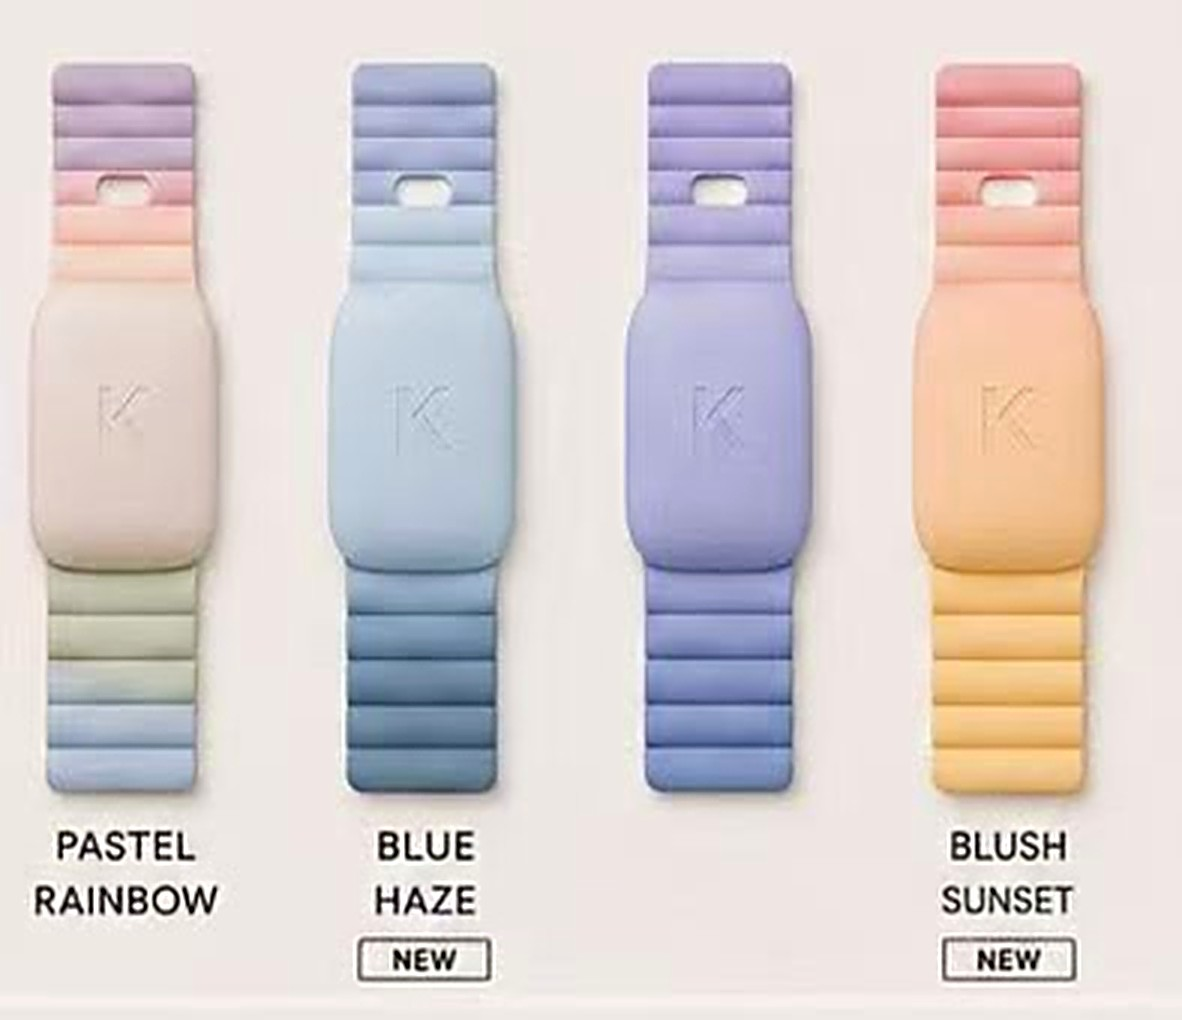
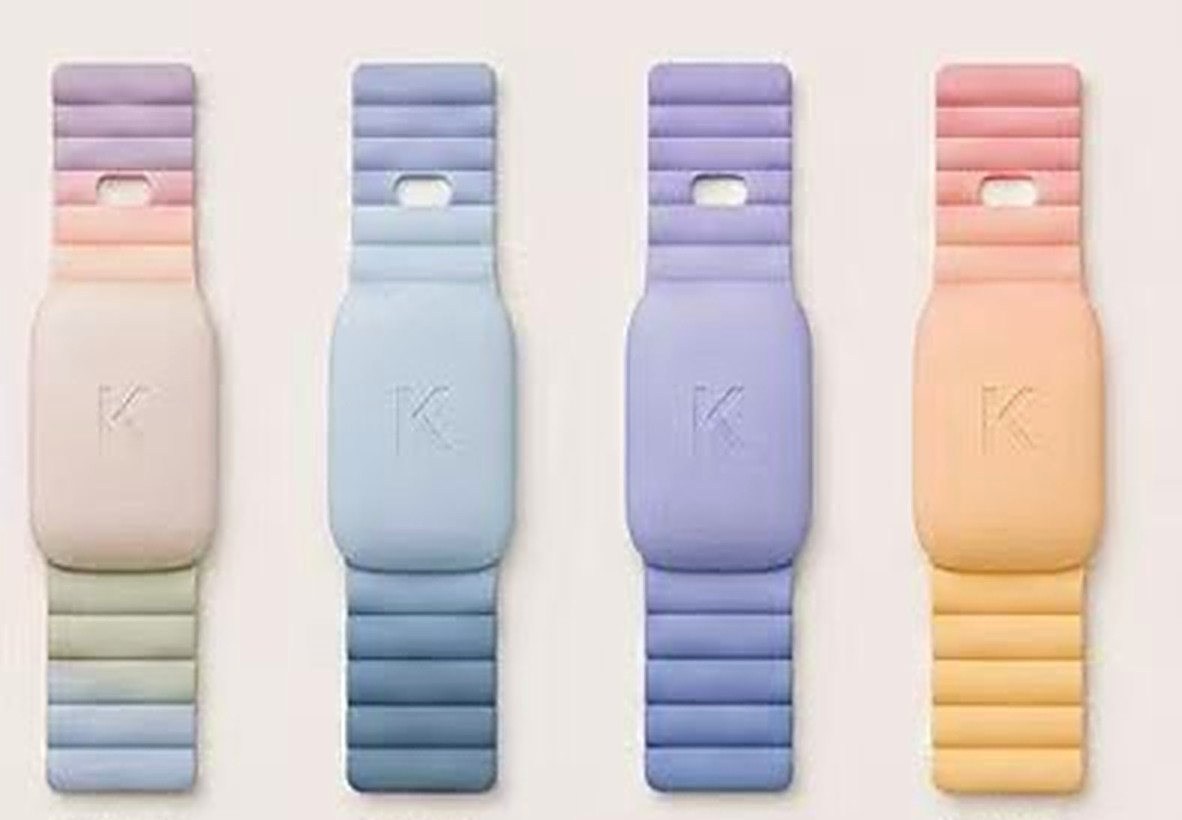
Marketing overhaul: Calm Score hero section, pro copy pass, crop colorway labels from band image
- Crop baked-in colorway text strip off band-lineup.jpg (3 labels / 4 bands read as a layout bug)
- New full-width Calm Score section: live sparkline + push-notification mock — the real-time differentiator now gets Whoop-grade placement
- Replace emoji card icons with uppercase category eyebrows (Oura-style)
- Kill 'An app that follows the sky' header → 'Built for parents. Loved by kids.' with job-based screenshot captions; build note demoted to footnote
- De-emoji hero chips, sharpen hero subhead around live Calm Score

diff --git a/index.html b/index.html
@@ -4,7 +4,7 @@
     <meta charset="UTF-8">
     <meta name="viewport" content="width=device-width, initial-scale=1.0">
     <title>Kidence — The wellness band for growing kids</title>
-    <meta name="description" content="Sleep, activity and calm — one gentle band turns your child's day into a clear picture: a daily readiness score, AI guidance tuned to your kid, and a companion they'll love wearing.">
+    <meta name="description" content="The wellness band for kids: sleep, activity and a real-time Calm Score that shows big feelings building — with AI guidance tuned to your child. Reserve for $5.99, fully refundable.">
     <link rel="icon" type="image/png" href="favicon.png">
     <script src="https://cdn.tailwindcss.com"></script>
     <link rel="preconnect" href="https://fonts.googleapis.com">
@@ -82,14 +82,14 @@
         <div class="flex flex-col lg:flex-row items-center gap-10 lg:gap-14">
             <div class="w-full lg:w-1/2 space-y-6 sm:space-y-7 text-center lg:text-left">
                 <span class="inline-block px-4 py-1.5 text-xs font-semibold tracking-widest uppercase bg-kidence-pastel-lilac rounded-full text-kidence-dark animate-fade-in-up">
-                    The first wellness band built for kids
+                    Wellness tracking, finally built for kids
                 </span>
                 <h1 class="font-display text-4xl sm:text-5xl md:text-7xl font-light tracking-tight leading-[1.08] md:leading-[1.05] text-balance animate-fade-in-up" style="animation-delay: .15s;">
                     Know how they're<br><span class="text-kidence-accent italic">really doing.</span>
                 </h1>
                 <p class="max-w-md mx-auto lg:mx-0 text-base sm:text-lg text-kidence-muted leading-relaxed animate-fade-in-up" style="animation-delay: .3s;">
-                    One gentle band turns your child's <em>sleep, activity and calm</em>
-                    into a clear daily picture — with AI guidance tuned to your kid,
+                    One gentle band, one clear picture: sleep, activity and a
+                    live <em>Calm Score</em> — with guidance tuned to your kid,
                     and a companion they'll actually want to wear.
                 </p>
                 <div class="flex flex-col sm:flex-row flex-wrap items-center justify-center lg:justify-start gap-3 sm:gap-4 animate-fade-in-up" style="animation-delay: .45s;">
@@ -107,15 +107,15 @@
             <div class="w-full lg:w-1/2 relative">
                 <div class="absolute -inset-8 bg-kidence-pastel-peach rounded-[3rem] blur-3xl opacity-60"></div>
                 <div class="relative max-w-sm mx-auto animate-float">
-                    <img src="assets/band-lineup.jpg" alt="The Kidence Band — Pastel Rainbow, Blue Haze and Blush Sunset colorways" class="w-full rounded-3xl shadow-2xl shadow-kidence-dark/15">
-                    <p class="text-center text-xs text-kidence-muted mt-3">Production colorways — your kid picks at checkout</p>
+                    <img src="assets/band-lineup.jpg" alt="The Kidence Band in four pastel colorways" class="w-full rounded-3xl shadow-2xl shadow-kidence-dark/15">
+                    <p class="text-center text-xs text-kidence-muted mt-3">Production colorways — they pick at checkout</p>
                 </div>
                 <!-- Live-score chips -->
                 <div class="relative flex flex-wrap justify-center gap-2 mt-2">
-                    <span class="score-chip px-4 py-2 bg-white/80 border border-kidence-offwhite rounded-full text-xs font-semibold shadow-sm">🌅 Readiness 87</span>
-                    <span class="score-chip px-4 py-2 bg-white/80 border border-kidence-offwhite rounded-full text-xs font-semibold shadow-sm">😴 9.2 h sleep</span>
-                    <span class="score-chip px-4 py-2 bg-white/80 border border-kidence-offwhite rounded-full text-xs font-semibold shadow-sm">⚡ 8,432 steps</span>
-                    <span class="score-chip px-4 py-2 bg-white/80 border border-kidence-offwhite rounded-full text-xs font-semibold shadow-sm">🧘 96% calm</span>
+                    <span class="score-chip px-4 py-2 bg-white/80 border border-kidence-offwhite rounded-full text-xs font-semibold shadow-sm">Readiness 87</span>
+                    <span class="score-chip px-4 py-2 bg-white/80 border border-kidence-offwhite rounded-full text-xs font-semibold shadow-sm">Sleep 9.2 h</span>
+                    <span class="score-chip px-4 py-2 bg-white/80 border border-kidence-offwhite rounded-full text-xs font-semibold shadow-sm">Steps 8,432</span>
+                    <span class="score-chip px-4 py-2 bg-white/80 border border-kidence-offwhite rounded-full text-xs font-semibold shadow-sm">Calm 96</span>
                 </div>
             </div>
         </div>
@@ -125,34 +125,90 @@
     <section class="container mx-auto px-5 sm:px-6 pb-16 sm:pb-24">
         <div class="grid grid-cols-1 md:grid-cols-2 lg:grid-cols-3 gap-5 sm:gap-6">
             <div class="p-7 sm:p-8 rounded-3xl bg-kidence-pastel-sun/60 space-y-3">
-                <div class="text-4xl">🌅</div>
-                <h3 class="font-display text-xl font-semibold">A readiness score each morning</h3>
-                <p class="text-sm text-kidence-muted leading-relaxed">Built from last night's sleep and yesterday's day: how much does your kid have in the tank today — full speed, or a gentler plan?</p>
+                <p class="text-[11px] font-semibold tracking-[0.18em] uppercase text-kidence-muted">Readiness</p>
+                <h3 class="font-display text-xl font-semibold">A number you can plan the day around</h3>
+                <p class="text-sm text-kidence-muted leading-relaxed">Built overnight from sleep and yesterday's load: how much is in the tank — full speed ahead, or a gentler plan today.</p>
             </div>
             <div class="p-7 sm:p-8 rounded-3xl bg-kidence-pastel-blue/60 space-y-3">
-                <div class="text-4xl">😴</div>
+                <p class="text-[11px] font-semibold tracking-[0.18em] uppercase text-kidence-muted">Sleep</p>
                 <h3 class="font-display text-xl font-semibold">Sleep, decoded</h3>
-                <p class="text-sm text-kidence-muted leading-relaxed">Bedtime, wake-ups, deep sleep — see the night that explains the day, and whether they're getting what a growing body needs.</p>
+                <p class="text-sm text-kidence-muted leading-relaxed">Bedtime, wake-ups, deep sleep — see the night that explains the day, and whether a growing body is getting what it needs.</p>
             </div>
             <div class="p-7 sm:p-8 rounded-3xl bg-kidence-pastel-peach/60 space-y-3">
-                <div class="text-4xl">⚡</div>
-                <h3 class="font-display text-xl font-semibold">Activity &amp; energy</h3>
-                <p class="text-sm text-kidence-muted leading-relaxed">Steps, active minutes and energy bursts across the day — is their body getting the movement it's wired to need?</p>
+                <p class="text-[11px] font-semibold tracking-[0.18em] uppercase text-kidence-muted">Activity</p>
+                <h3 class="font-display text-xl font-semibold">Movement that matters</h3>
+                <p class="text-sm text-kidence-muted leading-relaxed">Steps, active minutes and energy bursts across the day — whether their body is getting the movement it's wired to need.</p>
             </div>
             <div class="p-7 sm:p-8 rounded-3xl bg-kidence-pastel-mint/60 space-y-3">
-                <div class="text-4xl">🧘</div>
-                <h3 class="font-display text-xl font-semibold">Calm patterns</h3>
-                <p class="text-sm text-kidence-muted leading-relaxed">The band notices big-feelings moments as they build and maps the rhythm of calm — one tap teaches Kidence your child.</p>
+                <p class="text-[11px] font-semibold tracking-[0.18em] uppercase text-kidence-muted">Calm</p>
+                <h3 class="font-display text-xl font-semibold">A calm profile that learns</h3>
+                <p class="text-sm text-kidence-muted leading-relaxed">Confirm a tough moment with one tap and Kidence tunes itself to your child — what builds, when it builds, and what helps.</p>
             </div>
             <div class="p-7 sm:p-8 rounded-3xl bg-white border border-kidence-offwhite space-y-3">
-                <div class="text-4xl">🌡</div>
-                <h3 class="font-display text-xl font-semibold">Off-day signals, early</h3>
-                <p class="text-sm text-kidence-muted leading-relaxed">Overnight temperature and heart-rate trends surface unusual nights — so a rough day is something you see coming, not a surprise.<span class="block mt-2 text-xs opacity-70">Wellness insights — not a medical device.</span></p>
+                <p class="text-[11px] font-semibold tracking-[0.18em] uppercase text-kidence-muted">Early signals</p>
+                <h3 class="font-display text-xl font-semibold">Off days, seen coming</h3>
+                <p class="text-sm text-kidence-muted leading-relaxed">Overnight temperature and heart-rate shifts flag unusual nights — so a rough day rarely arrives as a surprise.<span class="block mt-2 text-xs opacity-70">Wellness insights — not a medical device.</span></p>
             </div>
             <div class="p-7 sm:p-8 rounded-3xl bg-kidence-pastel-lilac/60 space-y-3">
-                <div class="text-4xl">🐿</div>
-                <h3 class="font-display text-xl font-semibold">Momo makes it theirs</h3>
-                <p class="text-sm text-kidence-muted leading-relaxed">A companion who sleeps when they sleep, celebrates their wins, and saves tonight's story. Kids keep the band on because Momo lives in it.</p>
+                <p class="text-[11px] font-semibold tracking-[0.18em] uppercase text-kidence-muted">Companion</p>
+                <h3 class="font-display text-xl font-semibold">The reason it stays on</h3>
+                <p class="text-sm text-kidence-muted leading-relaxed">Momo sleeps when they sleep, celebrates their wins, and saves tonight's story. Parents get the data; kids get a friend.</p>
+            </div>
+        </div>
+    </section>
+
+    <!-- Calm Score — hero feature -->
+    <section class="container mx-auto px-5 sm:px-6 pb-16 sm:pb-24">
+        <div class="bg-kidence-pastel-mint/50 rounded-[2rem] sm:rounded-[3rem] p-8 sm:p-12 md:p-16">
+            <div class="flex flex-col lg:flex-row items-center gap-10 lg:gap-16">
+                <div class="w-full lg:w-1/2 space-y-5 text-center lg:text-left">
+                    <p class="text-[11px] font-semibold tracking-[0.18em] uppercase text-kidence-muted">Calm Score · Live</p>
+                    <h2 class="font-display text-3xl sm:text-4xl md:text-5xl font-light text-balance leading-tight">Stress, seen as it builds — not after.</h2>
+                    <p class="text-kidence-muted leading-relaxed max-w-md mx-auto lg:mx-0">
+                        Adults have had stress scores for years. Kids — who can't always
+                        say <em>"I'm overwhelmed"</em> — never did. Kidence reads heart rate,
+                        heart-rhythm variability and motion to score your child's calm
+                        from 0–100, continuously. When it starts to slide, you see it
+                        on your phone — often before it shows on their face.
+                    </p>
+                    <ul class="space-y-2.5 text-sm text-kidence-muted max-w-md mx-auto lg:mx-0 text-left">
+                        <li class="flex gap-3"><span class="text-kidence-accent font-semibold">—</span>Live all day, not a once-a-day summary</li>
+                        <li class="flex gap-3"><span class="text-kidence-accent font-semibold">—</span>One tap teaches it: confirm or dismiss, and the score tunes to your child</li>
+                        <li class="flex gap-3"><span class="text-kidence-accent font-semibold">—</span>Watch the weekly calm trend move as routines change</li>
+                    </ul>
+                    <p class="text-xs text-kidence-muted/70">Wellness insights — not a medical device.</p>
+                </div>
+                <div class="w-full lg:w-1/2">
+                    <div class="bg-white rounded-3xl border border-kidence-offwhite shadow-xl shadow-kidence-dark/5 p-6 sm:p-8 max-w-md mx-auto w-full">
+                        <div class="flex items-center justify-between mb-2">
+                            <div class="flex items-center gap-2.5">
+                                <span class="font-display font-semibold">Calm</span>
+                                <span class="flex items-center gap-1.5 text-[10px] font-semibold tracking-widest uppercase text-emerald-600"><span class="w-1.5 h-1.5 rounded-full bg-emerald-500 animate-pulse"></span>Live</span>
+                            </div>
+                            <span class="font-display text-4xl font-light">72</span>
+                        </div>
+                        <svg viewBox="0 0 400 120" class="w-full h-auto" fill="none" aria-hidden="true">
+                            <defs>
+                                <linearGradient id="calmFill" x1="0" y1="0" x2="0" y2="1">
+                                    <stop offset="0%" stop-color="#2F9E6E" stop-opacity="0.16"/>
+                                    <stop offset="100%" stop-color="#2F9E6E" stop-opacity="0"/>
+                                </linearGradient>
+                            </defs>
+                            <path d="M0,34 C40,28 70,40 100,36 C130,32 150,24 180,30 C205,35 225,70 250,92 C262,101 274,98 286,84 C305,62 330,48 360,44 C375,42 390,40 400,38 L400,120 L0,120 Z" fill="url(#calmFill)"/>
+                            <path d="M0,34 C40,28 70,40 100,36 C130,32 150,24 180,30 C205,35 225,70 250,92 C262,101 274,98 286,84 C305,62 330,48 360,44 C375,42 390,40 400,38" stroke="#2F9E6E" stroke-width="2.5" stroke-linecap="round"/>
+                            <circle cx="250" cy="92" r="9" fill="#2F9E6E" opacity="0.18"/>
+                            <circle cx="250" cy="92" r="4.5" fill="#2F9E6E"/>
+                        </svg>
+                        <div class="mt-5 flex items-start gap-3 bg-kidence-offwhite rounded-2xl p-4 text-left">
+                            <span class="w-8 h-8 shrink-0 rounded-lg bg-kidence-dark text-white text-xs font-display font-semibold flex items-center justify-center">K</span>
+                            <div>
+                                <p class="text-xs font-semibold">Calm dropping · 2:47 PM</p>
+                                <p class="text-xs text-kidence-muted leading-relaxed">Big feelings may be building — a quiet minute together usually helps Lang.</p>
+                            </div>
+                        </div>
+                        <p class="text-[10px] text-kidence-muted/70 text-center mt-3">Illustrative — alerts arrive on your phone.</p>
+                    </div>
+                </div>
             </div>
         </div>
     </section>
@@ -161,8 +217,8 @@
     <section class="container mx-auto px-5 sm:px-6 pb-16 sm:pb-24">
         <div class="bg-kidence-night rounded-[2rem] sm:rounded-[3rem] p-8 sm:p-12 md:p-16">
             <div class="max-w-3xl mx-auto space-y-6">
-                <h2 class="font-display text-3xl sm:text-4xl font-light text-white text-center text-balance">The numbers, translated ✨</h2>
-                <p class="text-white/60 text-center text-sm sm:text-base">Every day, Kidence reads your child's data and tells you what it means — in plain words, about <em>your</em> kid, never generic advice.</p>
+                <h2 class="font-display text-3xl sm:text-4xl font-light text-white text-center text-balance">Every number, explained.</h2>
+                <p class="text-white/60 text-center text-sm sm:text-base">Each morning, Kidence turns the data into plain words about <em>your</em> kid — what happened, what it means, and one thing worth trying. Never generic advice.</p>
                 <div class="bg-white/10 border border-white/15 rounded-2xl p-5 sm:p-6 space-y-3 text-sm sm:text-base">
                     <p class="text-white/90">• Lang was calm 98% of the day — a genuinely peaceful week with zero big-feelings moments.</p>
                     <p class="text-white/90">• Sleep averaged 7.0 h, below the 11.5 h goal — most kids Lang's age need that full amount to thrive.</p>
@@ -179,27 +235,28 @@
     <section class="bg-kidence-offwhite py-16 sm:py-24">
         <div class="container mx-auto px-5 sm:px-6">
             <div class="text-center max-w-xl mx-auto mb-12 sm:mb-16 space-y-3">
-                <h2 class="font-display text-3xl sm:text-4xl font-light">An app that follows the sky</h2>
-                <p class="text-kidence-muted text-sm sm:text-base">Dawn, day, dusk and starry night — the app lives on your child's real clock. Real screens from the current build.</p>
+                <h2 class="font-display text-3xl sm:text-4xl font-light">Built for parents. Loved by kids.</h2>
+                <p class="text-kidence-muted text-sm sm:text-base">Clear scores and trends for you, a gentle companion for them — free in beta today, ready for the band when it arrives.</p>
             </div>
             <div class="grid grid-cols-2 lg:grid-cols-4 gap-4 sm:gap-6 md:gap-8 max-w-5xl mx-auto items-start">
                 <div class="space-y-3 text-center">
-                    <img src="assets/shot2-today.png" alt="Today — scores and the daily timeline" class="phone-shot w-full" loading="lazy">
-                    <p class="text-xs text-kidence-muted font-medium">Today — the whole day, one sky</p>
+                    <img src="assets/shot2-today.png" alt="The Today screen — readiness, sleep, activity and calm scores with the daily timeline" class="phone-shot w-full" loading="lazy">
+                    <p class="text-xs text-kidence-muted font-medium">Their whole day, one glance</p>
                 </div>
                 <div class="space-y-3 text-center lg:translate-y-8">
-                    <img src="assets/shot2-daymode.png" alt="The same app in day mode" class="phone-shot w-full" loading="lazy">
-                    <p class="text-xs text-kidence-muted font-medium">…and it follows their real clock</p>
+                    <img src="assets/shot2-daymode.png" alt="The same screen in day mode — the app follows your child's real clock" class="phone-shot w-full" loading="lazy">
+                    <p class="text-xs text-kidence-muted font-medium">Day or night, it follows their clock</p>
                 </div>
                 <div class="space-y-3 text-center">
-                    <img src="assets/shot2-goals.png" alt="Goals and weekly rhythm" class="phone-shot w-full" loading="lazy">
-                    <p class="text-xs text-kidence-muted font-medium">Goals, streaks &amp; weekly rhythm</p>
+                    <img src="assets/shot2-goals.png" alt="Goals and weekly rhythm tracking" class="phone-shot w-full" loading="lazy">
+                    <p class="text-xs text-kidence-muted font-medium">Goals that build routines</p>
                 </div>
                 <div class="space-y-3 text-center lg:translate-y-8">
                     <img src="assets/shot2-den.png" alt="Momo's den — stories and stickers" class="phone-shot w-full" loading="lazy">
-                    <p class="text-xs text-kidence-muted font-medium">Momo's den — stories &amp; stickers</p>
+                    <p class="text-xs text-kidence-muted font-medium">Momo's den — the reward layer</p>
                 </div>
             </div>
+            <p class="text-[11px] text-kidence-muted/60 text-center mt-10">Actual app screens, demo data.</p>
         </div>
     </section>
 
